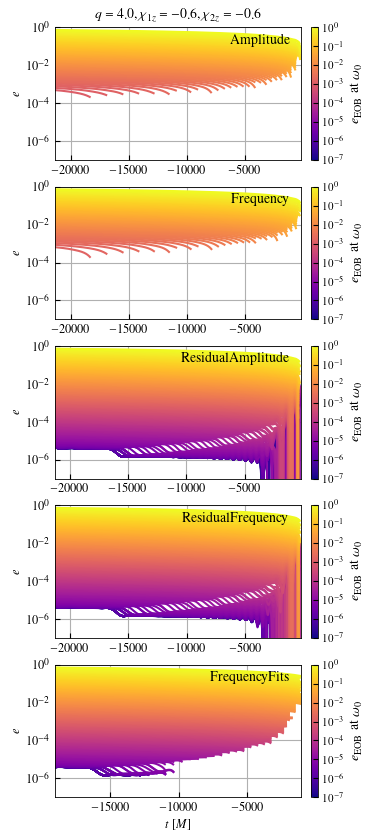
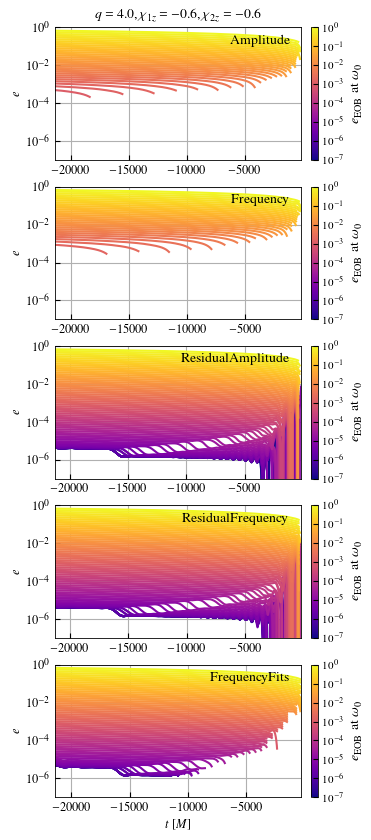
move load data outside method loop

diff --git a/EccTests/EOBTests/eob_smoothness_test.py b/EccTests/EOBTests/eob_smoothness_test.py
@@ -1,3 +1,5 @@
+"""Test smoothness of eccentricity definition methods using EOB waveforms."""
+
 __doc__ = """This test checks whether different eccentricity definitions vary
 smoothly as a function of the internal eccentricity definition used by Toni's
 EOB model. The EOB waveforms that are used for this test are generated from a
@@ -8,16 +10,18 @@ smoothness of the measured eccentricities compared to the eob eccentricities
 used by the waveform model to generate the waveforms in the following two ways:
 
 - For each waveform, we measure the eccentricity at the very first extrema
-(periastron or apastron). That way, the measured eccentricity is also at (nearly)
-Momega0. Finally, we plot the measured eccentricity vs the internal EOB eccentricity.
-You should check visually whether there are glitchy features in these plots.
+(pericenter or apocenter). That way, the measured eccentricity is also at
+(nearly) Momega0. Finally, we plot the measured eccentricity vs the internal
+EOB eccentricity.  You should check visually whether there are glitchy features
+in these plots.
 
 - For each waveform, We plot the measured eccentricity vs tref_out, and color
 the lines by the input EOB eccentricity at Momega0. You should check visually
 whether there are glitchy features in these plots.
 
 Usage:
-python eob_smoothness_test.py -d ecc_waveforms -m 'Amplitude' 'ResidualAmplitude' -p 'all'
+python eob_smoothness_test.py -d ecc_waveforms -m 'Amplitude' \
+'ResidualAmplitude' -p 'all'
 python eob_smoothness_test.py -d ecc_waveforms -m 'all' -p 'all'
 """
 
@@ -88,12 +92,13 @@ parser.add_argument(
     "--slice",
     type=int,
     default=1,
-    help=("Slice the eccentricities to loop over (EOBecccs array containing 150 eccs from 1e-7 to 1.0)"
-          " by taking only every nth ecc value given by slice."
-          " This is useful when we want do not want to plot for all"
-          " the ecc but skip n number of ecc given by slice. NOTE: This is applied only"
-          " for the measured ecc vs time plot to make each line readable. Specially"
-          " for presenting in the paper. For regular test using the default value, i.e.,"
+    help=("Slice the eccentricities to loop over (EOBecccs array containing"
+          " 150 eccs from 1e-7 to 1.0) by taking only every nth ecc value"
+          " given by slice. This is useful when we do not want to plot"
+          " for all the ecc but skip n number of ecc given by slice."
+          " NOTE: This is applied only for the measured ecc vs time plot to"
+          " make each line readable. Specially for presenting in the paper."
+          " For regular test using the default value, i.e.,"
           " no slicing is recommended."))
 parser.add_argument(
     "--paper",
@@ -104,9 +109,11 @@ args = parser.parse_args()
 
 EOBeccs = 10**np.linspace(-7, 0, 150)
 Momega0 = 0.01
-# We generate the waveforms with initial mean anomaly = pi/2 so that over the entire range
-# of initial eccentricities 1e-7 to 1, the length of generated waveforms (inspiral time)
-# does not change too much which is the case if we start with mean anomaly = 0. 
+# We generate the waveforms with initial mean anomaly = pi/2 so that over the
+# entire range of initial eccentricities 1e-7 to 1, the length of generated
+# waveforms (inspiral time) does not change too much which is the case if we
+# start with mean anomaly = 0. This is because at mean_ano = pi/2 the
+# instantaneous frequency is close to the orbit averaged frequency.
 meanAno = np.pi/2
 Momega0_zeroecc = 0.002
 # Format: [q, chi1z, chi2z]
@@ -127,6 +134,7 @@ colors = cmap(np.linspace(0, 1, len(EOBeccs)))
 
 
 def plot_waveform_ecc_vs_model_ecc(methods, key):
+    """Create plots for given methods and parameter set."""
     # Get the output figure name
     # method_str is used in the filename for the output figure
     if "all" in methods:
@@ -136,31 +144,36 @@ def plot_waveform_ecc_vs_model_ecc(methods, key):
         method_str = "_".join(args.method)
 
     if args.example:
-        fig_ecc_at_start_name = (f"{args.fig_dir}/test_eob_vs_measured_ecc_example"
-                                        f".{args.plot_format}")
-        fig_ecc_vs_t_name = (f"{args.fig_dir}/test_measured_ecc_vs_time_example."
-                    f"{args.plot_format}")
+        fig_ecc_at_start_name = (
+            f"{args.fig_dir}/test_eob_vs_measured_ecc_example"
+            f".{args.plot_format}")
+        fig_ecc_vs_t_name = (
+            f"{args.fig_dir}/test_measured_ecc_vs_time_example."
+            f"{args.plot_format}")
     else:
-        fig_ecc_at_start_name = (f"{args.fig_dir}/test_eob_vs_measured_ecc_set{key}_{method_str}"
-                                   f".{args.plot_format}")
-        fig_ecc_vs_t_name = (f"{args.fig_dir}/test_measured_ecc_vs_time_set{key}_{method_str}"
-                                         f".{args.plot_format}")
+        fig_ecc_at_start_name = (
+            f"{args.fig_dir}/test_eob_vs_measured_ecc_set{key}_{method_str}"
+            f".{args.plot_format}")
+        fig_ecc_vs_t_name = (
+            f"{args.fig_dir}/test_measured_ecc_vs_time_set{key}_{method_str}"
+            f".{args.plot_format}")
     # For eob vs measured ecc at the first extrema
     fig_ecc_at_start, ax_ecc_at_start = plt.subplots(
-        figsize=(figWidthsOneColDict[journal], 3))
+        figsize=(figWidthsOneColDict[style], 3))
     # For measured ecc vs time
     fig_ecc_vs_t, ax_ecc_vs_t = plt.subplots(
         nrows=len(methods),
-        figsize=(figWidthsOneColDict[journal], # Figure width 
-                 (2 if args.paper else 3) # Height of each row
-                 * len(methods) # Number of rows
+        figsize=(figWidthsOneColDict[style],  # Figure width
+                 (2 if args.paper else 3)  # Height of each row
+                 * len(methods)  # Number of rows
                  ))
     if len(methods) == 1:
         ax_ecc_vs_t = [ax_ecc_vs_t]
     # Create dictionaries to store different quantities for each methods
     # as we loop over all the eccentricity and methods.
-    model_eccs = {} # To keep track of eob input eccentricity.
-    measured_eccs_at_start = {}  # To keep track of measured ecc at the first extrema.
+    model_eccs = {}  # To keep track of eob input eccentricity.
+    measured_eccs_at_start = {}  # To keep track of measured ecc at the first
+    # extrema.
     tmaxList = {}  # To keep track of minimum time in tref_out across all eccs.
     tminList = {}  # To keep track of maximum time in tref_out across all eccs.
     # Initiate the dictionary with an empty list for each method
@@ -175,19 +188,19 @@ def plot_waveform_ecc_vs_model_ecc(methods, key):
                     f"chi2z{chi2z:.2f}_EOBecc{ecc:.10f}_"
                     f"Momega0{Momega0:.3f}_meanAno{meanAno:.3f}.h5")
         kwargs = {"filepath": fileName}
+        # check if any residual method is in methods. If yes then load
+        # zeroecc waveforms also.
+        if "ResidualAmplitude" in methods or "ResidualFrequency" in methods:
+            fileName_zero_ecc = (
+                f"{data_dir}/EccTest_q{q:.2f}_chi1z"
+                f"{chi1z:.2f}_"
+                f"chi2z{chi2z:.2f}_EOBecc{0:.10f}_"
+                f"Momega0{Momega0_zeroecc:.3f}_meanAno{meanAno:.3f}.h5")
+            kwargs.update({"filepath_zero_ecc": fileName_zero_ecc,
+                           "include_zero_ecc": True})
         dataDict = load_waveform(catalog="EOB", **kwargs)
         tref_in = dataDict["t"]
         for idx, method in enumerate(methods):
-            if "Residual" in method:
-                fileName_zero_ecc = (
-                    f"{data_dir}/EccTest_q{q:.2f}_chi1z"
-                    f"{chi1z:.2f}_"
-                    f"chi2z{chi2z:.2f}_EOBecc{0:.10f}_"
-                    f"Momega0{Momega0_zeroecc:.3f}_meanAno{meanAno:.3f}.h5")
-                kwargs.update({"filepath_zero_ecc": fileName_zero_ecc,
-                               "include_zero_ecc": True})
-                # Reload the datadict to include zeroecc data
-                dataDict = load_waveform(catalog="EOB", **kwargs)
             try:
                 tref_out, measured_ecc, mean_ano = measure_eccentricity(
                     tref_in=tref_in,
@@ -201,20 +214,25 @@ def plot_waveform_ecc_vs_model_ecc(methods, key):
                 measured_eccs_at_start[method] += [measured_ecc[0]]
                 tmaxList[method] += [tref_out[-1]]
                 tminList[method] += [tref_out[0]]
-                # Add measured ecc vs time plot for each method to corresponding axis.
-                # Add only for idx0 that are multiples of args.slice. This is to reduce the
-                # number of lines in the plot to make each line plot visible
+                # Add measured ecc vs time plot for each method to
+                # corresponding axis.  Add only for idx0 that are multiples of
+                # args.slice. This is to reduce the number of lines in the plot
+                # to make each line plot visible. This is true only for this
+                # plot.  For ecc at first extrema vs eob eccs, we plot for all
+                # eccs.
                 if idx0 % args.slice == 0:
-                    ax_ecc_vs_t[idx].plot(tref_out, measured_ecc, c=colors[idx0], label=f"{ecc:.7f}")
+                    ax_ecc_vs_t[idx].plot(tref_out, measured_ecc,
+                                          c=colors[idx0], label=f"{ecc:.7f}")
                 if idx == len(methods) - 1:
                     ax_ecc_vs_t[idx].set_xlabel(r"$t$ [$M$]")
             except Exception:
-                warnings.warn("Exception raised. Probably too small eccentricity "
-                              "to detect any extrema.")
-    # Iterate over methods to plots measured ecc at the first extrema vs eob eccs collected above
-    # looping over all EOB eccs for each methods
+                warnings.warn("Exception raised. Probably too small"
+                              " eccentricity to detect any extrema.")
+    # Iterate over methods to plots measured ecc at the first extrema vs eob
+    # eccs collected above looping over all EOB eccs for each methods
     for idx, method in enumerate(methods):
-        # Plot measured eccs at the first extrema vs eob eccs for different methods
+        # Plot measured eccs at the first extrema vs eob eccs for different
+        # methods
         ax_ecc_at_start.loglog(
             model_eccs[method], measured_eccs_at_start[method], label=method,
             c=colorsDict.get(method, "C0"),
@@ -238,7 +256,8 @@ def plot_waveform_ecc_vs_model_ecc(methods, key):
         ax_ecc_vs_t[idx].set_yticks(10.0**np.arange(-6.0, 1.0, 2.0))
         # Add text indicating the method used
         ax_ecc_vs_t[idx].text(0.95, 0.95, method, ha="right", va="top",
-                transform=ax_ecc_vs_t[idx].transAxes, fontsize=10)
+                              transform=ax_ecc_vs_t[idx].transAxes,
+                              fontsize=10)
         # Add colorbar
         norm = mpl.colors.LogNorm(vmin=EOBeccs.min(), vmax=EOBeccs.max())
         divider = make_axes_locatable(ax_ecc_vs_t[idx])
@@ -251,9 +270,10 @@ def plot_waveform_ecc_vs_model_ecc(methods, key):
         cbar.set_label(r"$e_{\mathrm{EOB}}$ at $\omega_0$",
                        size=10)
         if idx == 0:
-            ax_ecc_vs_t[idx].set_title(rf"$q={q:.1f}, \chi_{{1z}}={chi1z:.1f}, "
-                         rf"\chi_{{2z}}={chi2z:.1f}$",
-                         ha="center", fontsize=10)
+            ax_ecc_vs_t[idx].set_title(
+                rf"$q={q:.1f}, \chi_{{1z}}={chi1z:.1f}, "
+                rf"\chi_{{2z}}={chi2z:.1f}$",
+                ha="center", fontsize=10)
 
     # Customize measured eccs at the first extrema vs eob eccs
     ax_ecc_at_start.set_title(
@@ -283,12 +303,13 @@ def plot_waveform_ecc_vs_model_ecc(methods, key):
         f"{fig_ecc_vs_t_name}",
         bbox_inches="tight")
 
+
 if "all" in args.param_set_key:
     args.param_set_key = list(available_param_sets.keys())
 
 #  Use fancy colors and other settings
-journal = "APS" if args.paper else "Notebook"
-use_fancy_plotsettings(journal=journal)
+style = "APS" if args.paper else "Notebook"
+use_fancy_plotsettings(style=style)
 
 for key in args.param_set_key:
     plot_waveform_ecc_vs_model_ecc(args.method, key)
